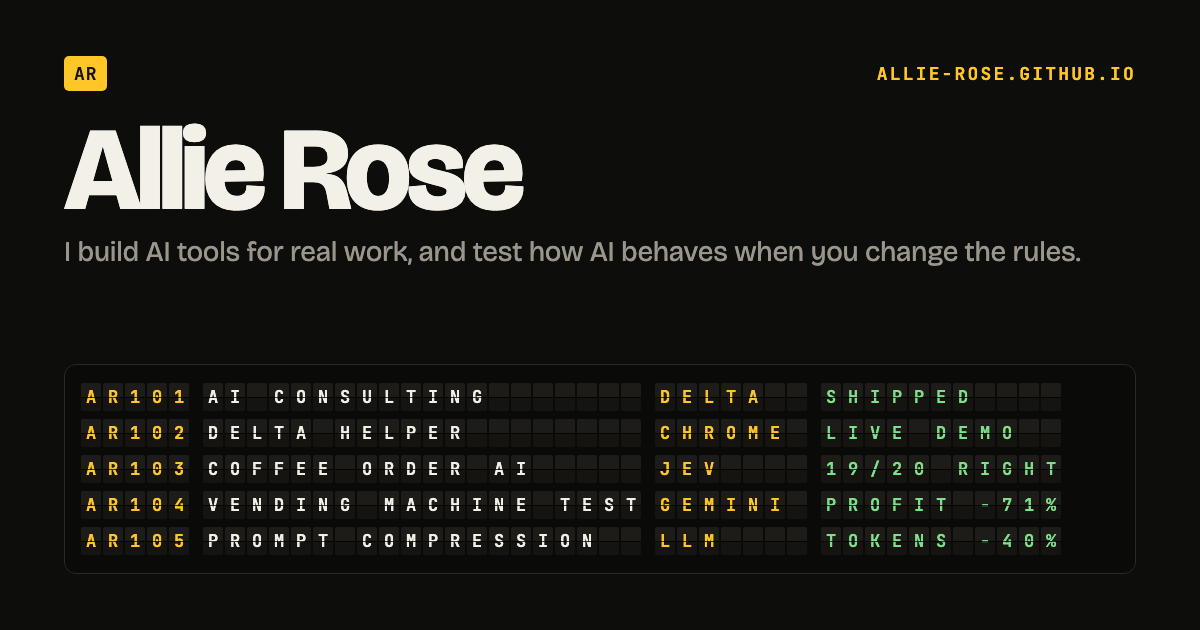
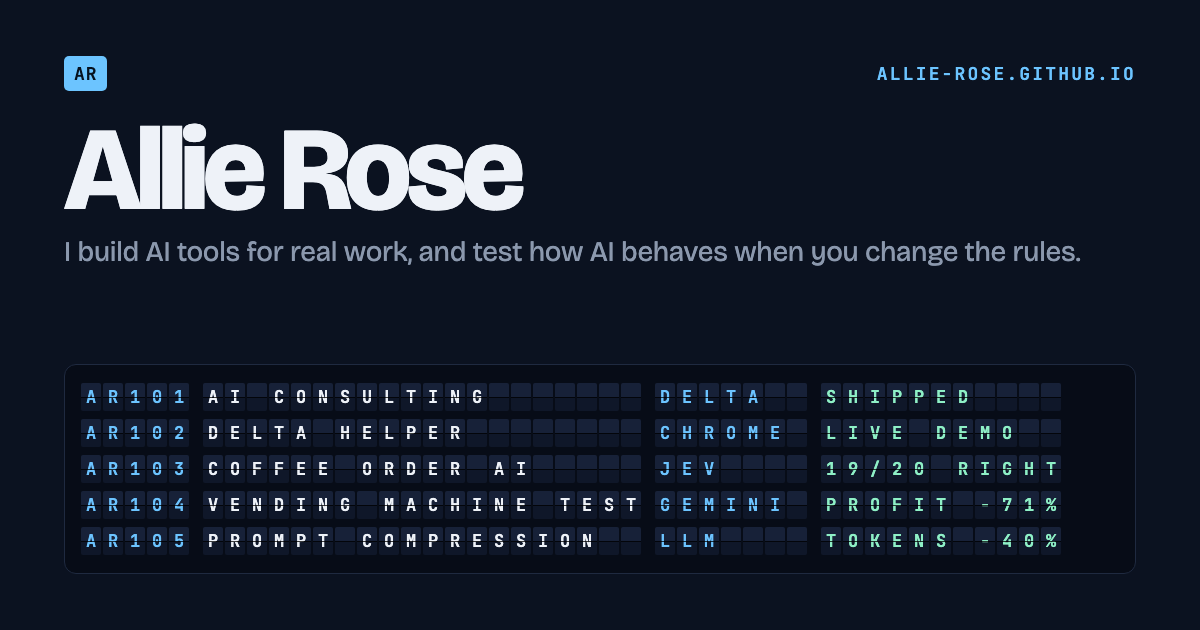
Switch color scheme to midnight blue and sky

diff --git a/styles.css b/styles.css
@@ -1,32 +1,32 @@
 /* ============================================================
-   Look: dark, bold type, airport departures board.
+   Look: midnight blue, bold type, airport departures board.
    Colors are set once here; light mode swaps them below.
    ============================================================ */
 :root {
-  --bg: #0d0d0c;
-  --surface: #161615;
-  --surface-2: #1e1e1c;
-  --text: #f3f0e8;
-  --muted: #9b968b;
-  --border: #2b2a27;
-  --accent: #ffc627;          /* departures-board amber */
-  --accent-text: #ffc627;
-  --accent-ink: #141210;
-  --accent-soft: rgba(255, 198, 39, .1);
+  --bg: #0b1220;
+  --surface: #121b2e;
+  --surface-2: #18233a;
+  --text: #eef2f8;
+  --muted: #8b98ad;
+  --border: #24304a;
+  --accent: #6cc4ff;          /* sky blue */
+  --accent-text: #6cc4ff;
+  --accent-ink: #06121f;
+  --accent-soft: rgba(108, 196, 255, .1);
   --display: "Bricolage Grotesque", system-ui, sans-serif;
   --mono: "JetBrains Mono", ui-monospace, Menlo, monospace;
   color-scheme: dark;
 }
 @media (prefers-color-scheme: light) {
   :root:not([data-theme="dark"]) {
-    --bg: #f2efe7; --surface: #faf8f3; --surface-2: #e9e5da; --text: #141413; --muted: #625e55;
-    --border: #d6d1c4; --accent-text: #9a5b00; --accent-soft: rgba(201, 138, 0, .12);
+    --bg: #edf1f7; --surface: #f8fafd; --surface-2: #dfe6f0; --text: #0d1526; --muted: #56627a;
+    --border: #cfd8e5; --accent-text: #0b67ad; --accent-soft: rgba(11, 103, 173, .1);
     color-scheme: light;
   }
 }
 :root[data-theme="light"] {
-  --bg: #f2efe7; --surface: #faf8f3; --surface-2: #e9e5da; --text: #141413; --muted: #625e55;
-  --border: #d6d1c4; --accent-text: #9a5b00; --accent-soft: rgba(201, 138, 0, .12);
+  --bg: #edf1f7; --surface: #f8fafd; --surface-2: #dfe6f0; --text: #0d1526; --muted: #56627a;
+  --border: #cfd8e5; --accent-text: #0b67ad; --accent-soft: rgba(11, 103, 173, .1);
   color-scheme: light;
 }
 
@@ -68,26 +68,26 @@ h1, h2, h3 { margin: 0; line-height: 1.05; font-family: var(--display); }
 .btn.ghost:hover { border-color: var(--text); }
 
 /* ---------- Departures board (always dark, like the real thing) ---------- */
-.board { background: #0a0a09; border: 1px solid #2a2925; border-radius: 10px; padding: 14px 14px 8px; box-shadow: 0 30px 60px -30px rgba(0,0,0,.6), inset 0 1px 0 rgba(255,255,255,.04); overflow-x: auto; }
-.board-head { display: flex; justify-content: space-between; font: 600 .72rem var(--mono); text-transform: uppercase; letter-spacing: .14em; color: #ffc627; padding: 0 4px 10px; border-bottom: 1px solid #22211e; }
-.board-clock { color: #8f8a7e; }
+.board { background: #070c17; border: 1px solid #1f2a40; border-radius: 10px; padding: 14px 14px 8px; box-shadow: 0 30px 60px -30px rgba(0,0,0,.6), inset 0 1px 0 rgba(255,255,255,.04); overflow-x: auto; }
+.board-head { display: flex; justify-content: space-between; font: 600 .72rem var(--mono); text-transform: uppercase; letter-spacing: .14em; color: #6cc4ff; padding: 0 4px 10px; border-bottom: 1px solid #1a2438; }
+.board-clock { color: #7f8ca3; }
 .board { --f: clamp(.7rem, 1.45vw, 1rem); }
 .board-cols { display: flex; gap: 14px; padding: 10px 4px 4px; font-size: var(--f); }
 .col { flex: none; width: calc(var(--n) * (1.15em + 2px) - 2px); }
-.col em { font: .62rem var(--mono); font-style: normal; text-transform: uppercase; letter-spacing: .12em; color: #6f6b62; }
+.col em { font: .62rem var(--mono); font-style: normal; text-transform: uppercase; letter-spacing: .12em; color: #5f6c84; }
 .board-row { display: flex; gap: 14px; padding: 5px 4px; border-radius: 6px; white-space: nowrap; transition: background .15s; }
-.board-row:hover { background: #17160f; }
+.board-row:hover { background: #0f1a2e; }
 .board-row:hover .flap { color: #fff; }
 .flaps { display: inline-flex; gap: 2px; flex: none; }
 .flap {
   position: relative; display: inline-grid; place-items: center;
   width: 1.15em; height: 1.55em; font: 600 var(--f) var(--mono);
-  color: #ffc627; background: linear-gradient(#1d1c19 0 49%, #151411 51% 100%);
+  color: #6cc4ff; background: linear-gradient(#172138 0 49%, #0f1729 51% 100%);
   border-radius: 2px; box-shadow: inset 0 -1px 0 rgba(0,0,0,.6);
 }
 .flap::after { content: ""; position: absolute; left: 0; right: 0; top: 50%; height: 1px; background: rgba(0,0,0,.75); }
-.c-title .flap { color: #f3f0e8; }
-.c-status .flap { color: #7ee08a; }
+.c-title .flap { color: #eef2f8; }
+.c-status .flap { color: #8ef0c6; }
 
 /* ---------- Skills ticker ---------- */
 .ticker { border-top: 1px solid var(--border); border-bottom: 1px solid var(--border); overflow: hidden; padding: 14px 0; background: var(--surface); }
@@ -154,7 +154,7 @@ h1, h2, h3 { margin: 0; line-height: 1.05; font-family: var(--display); }
 .demo-head { display: flex; align-items: baseline; gap: 1rem; flex-wrap: wrap; margin-bottom: 1.25rem; }
 .demo-head h2 { font: 600 .8rem var(--mono); text-transform: uppercase; letter-spacing: .12em; color: var(--accent-ink); background: var(--accent); padding: 4px 8px; border-radius: 4px; }
 .demo-head p { margin: 0; font-size: .92rem; flex: 1; min-width: 240px; }
-.code { background: #0a0a09; color: #e8e4da; border: 1px solid #2a2925; border-radius: 8px; padding: 1rem 1.1rem; overflow-x: auto; font: .82rem/1.6 var(--mono); max-width: 720px; margin: .5rem 0 0; }
+.code { background: #070c17; color: #dfe6f1; border: 1px solid #1f2a40; border-radius: 8px; padding: 1rem 1.1rem; overflow-x: auto; font: .82rem/1.6 var(--mono); max-width: 720px; margin: .5rem 0 0; }
 .pull { margin: 1.5rem 0 0; padding: 0 0 0 1.25rem; border-left: 4px solid var(--accent); font-size: clamp(1.3rem, 2.6vw, 1.75rem); font-weight: 700; line-height: 1.25; letter-spacing: -.02em; max-width: 700px; }
 .pull cite { display: block; margin-top: .75rem; font: 400 .72rem var(--mono); text-transform: uppercase; letter-spacing: .08em; color: var(--muted); font-style: normal; }
 .pager { display: flex; justify-content: space-between; gap: 1rem; padding: 2rem 0 0; border-top: 1px solid var(--border); margin-top: 2rem; font: .78rem var(--mono); text-transform: uppercase; letter-spacing: .06em; }
@@ -197,7 +197,7 @@ h1, h2, h3 { margin: 0; line-height: 1.05; font-family: var(--display); }
 .dm-under h3 { margin-bottom: .5rem; font-size: 1.1rem; }
 .dm-log { display: grid; gap: .75rem; margin-bottom: 1rem; }
 .dm-label { display: block; font: .7rem var(--mono); color: var(--muted); text-transform: uppercase; letter-spacing: .08em; margin-bottom: .25rem; }
-.dm-log code { display: block; background: #0a0a09; color: #e8e4da; border: 1px solid #2a2925; border-radius: 6px; padding: .6rem .8rem; font: .8rem/1.5 var(--mono); white-space: pre-wrap; word-break: break-word; }
+.dm-log code { display: block; background: #070c17; color: #dfe6f1; border: 1px solid #1f2a40; border-radius: 6px; padding: .6rem .8rem; font: .8rem/1.5 var(--mono); white-space: pre-wrap; word-break: break-word; }
 
 /* coffee chat */
 .dm-chat { background: var(--bg); border: 1px solid var(--border); border-radius: 10px; padding: 1rem; display: flex; flex-direction: column; gap: .6rem; min-height: 150px; }
@@ -206,7 +206,7 @@ h1, h2, h3 { margin: 0; line-height: 1.05; font-family: var(--display); }
 .dm-me { align-self: flex-end; background: var(--accent); color: var(--accent-ink); border-bottom-right-radius: 4px; font-weight: 500; }
 .dm-bot { align-self: flex-start; background: var(--surface-2); border-bottom-left-radius: 4px; }
 .dm-tag { display: inline-block; font: 600 .66rem var(--mono); text-transform: uppercase; letter-spacing: .06em; padding: 2px 8px; border-radius: 4px; margin-bottom: .4rem; color: #fff; }
-.dm-order { background: #2e7d32; } .dm-clarify { background: #c25400; } .dm-other { background: #5f5b53; }
+.dm-order { background: #2e7d32; } .dm-clarify { background: #c25400; } .dm-other { background: #56627a; }
 .dm-receipt { display: flex; justify-content: space-between; gap: 1rem; margin-top: .2rem; }
 .dm-receipt span { font-family: var(--mono); }
 .dm-conf { display: grid; grid-template-columns: auto 1fr; gap: .6rem; align-items: center; margin-top: .5rem; font: .75rem var(--mono); color: var(--muted); }
@@ -227,13 +227,13 @@ h1, h2, h3 { margin: 0; line-height: 1.05; font-family: var(--display); }
 .dm-pbar i { display: block; height: 100%; background: var(--accent); }
 
 /* sprint terminal */
-.dm-term { background: #0a0a09; color: #e6e2d8; border: 1px solid #2a2925; border-radius: 10px; padding: 1rem 1.1rem; font: .86rem/1.6 var(--mono); min-height: 200px; }
-.dm-prompt-line { color: #ffc627; }
-.dm-steps { color: #7ee08a; margin: .5rem 0; }
+.dm-term { background: #070c17; color: #dfe6f1; border: 1px solid #1f2a40; border-radius: 10px; padding: 1rem 1.1rem; font: .86rem/1.6 var(--mono); min-height: 200px; }
+.dm-prompt-line { color: #6cc4ff; }
+.dm-steps { color: #8ef0c6; margin: .5rem 0; }
 .dm-out h4 { margin: .75rem 0 .5rem; color: #fff; font: 600 .95rem var(--mono); }
 .dm-out table { width: 100%; border-collapse: collapse; font-size: .82rem; }
-.dm-out th, .dm-out td { text-align: left; padding: .4rem .5rem; border-bottom: 1px solid #23221f; }
-.dm-out th { color: #8f8a7e; font-weight: 400; text-transform: uppercase; font-size: .7rem; letter-spacing: .06em; }
+.dm-out th, .dm-out td { text-align: left; padding: .4rem .5rem; border-bottom: 1px solid #1a2438; }
+.dm-out th { color: #7f8ca3; font-weight: 400; text-transform: uppercase; font-size: .7rem; letter-spacing: .06em; }
 
 /* vending comparison */
 .dm-vend { display: grid; grid-template-columns: 1.4fr 1fr; gap: 1rem; }

diff --git a/project.html b/project.html
@@ -7,7 +7,7 @@
   <meta name="description" content="MIS + AI student at UGA. AI agents I built at Delta, a Chrome extension, a coffee-order assistant on Jev, and experiments on how AI makes decisions. Every project has a demo." />
   <meta property="og:title" content="Allie Rose · AI Portfolio" />
   <meta property="og:description" content="MIS + AI student at UGA. AI agents I built at Delta, a Chrome extension, a coffee-order assistant on Jev, and experiments on how AI makes decisions. Every project has a demo." />
-  <meta name="theme-color" content="#0d0d0c" />
+  <meta name="theme-color" content="#0b1220" />
   <link rel="icon" href="favicon.svg" type="image/svg+xml" />
   <link rel="icon" href="favicon-32.png" sizes="32x32" type="image/png" />
   <link rel="apple-touch-icon" href="apple-touch-icon.png" />

diff --git a/index.html b/index.html
@@ -9,7 +9,7 @@
   <meta property="og:title" content="Allie Rose · AI Portfolio" />
   <meta property="og:description" content="MIS + AI student at UGA. AI agents I built at Delta, a Chrome extension, a coffee-order assistant on Jev, and experiments on how AI makes decisions. Every project has a demo." />
   <meta property="og:url" content="https://allie-rose.github.io/" />
-  <meta name="theme-color" content="#0d0d0c" />
+  <meta name="theme-color" content="#0b1220" />
   <link rel="icon" href="favicon.svg" type="image/svg+xml" />
   <link rel="icon" href="favicon-32.png" sizes="32x32" type="image/png" />
   <link rel="apple-touch-icon" href="apple-touch-icon.png" />
